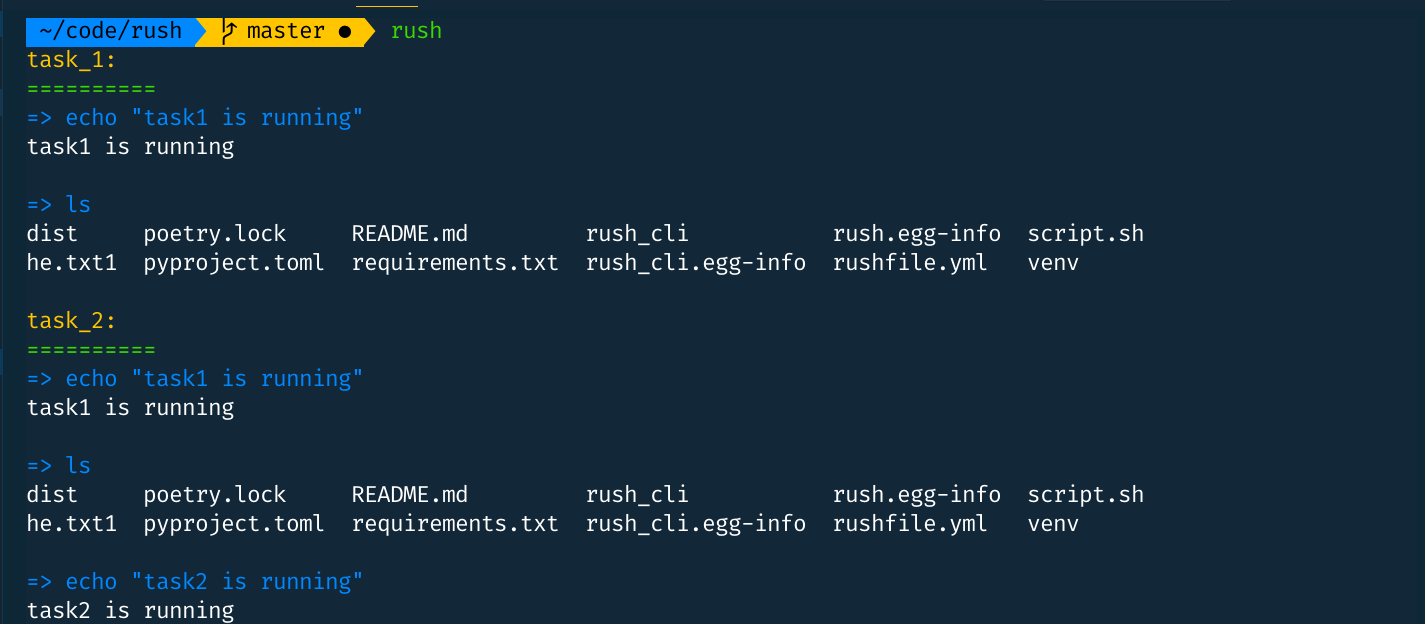
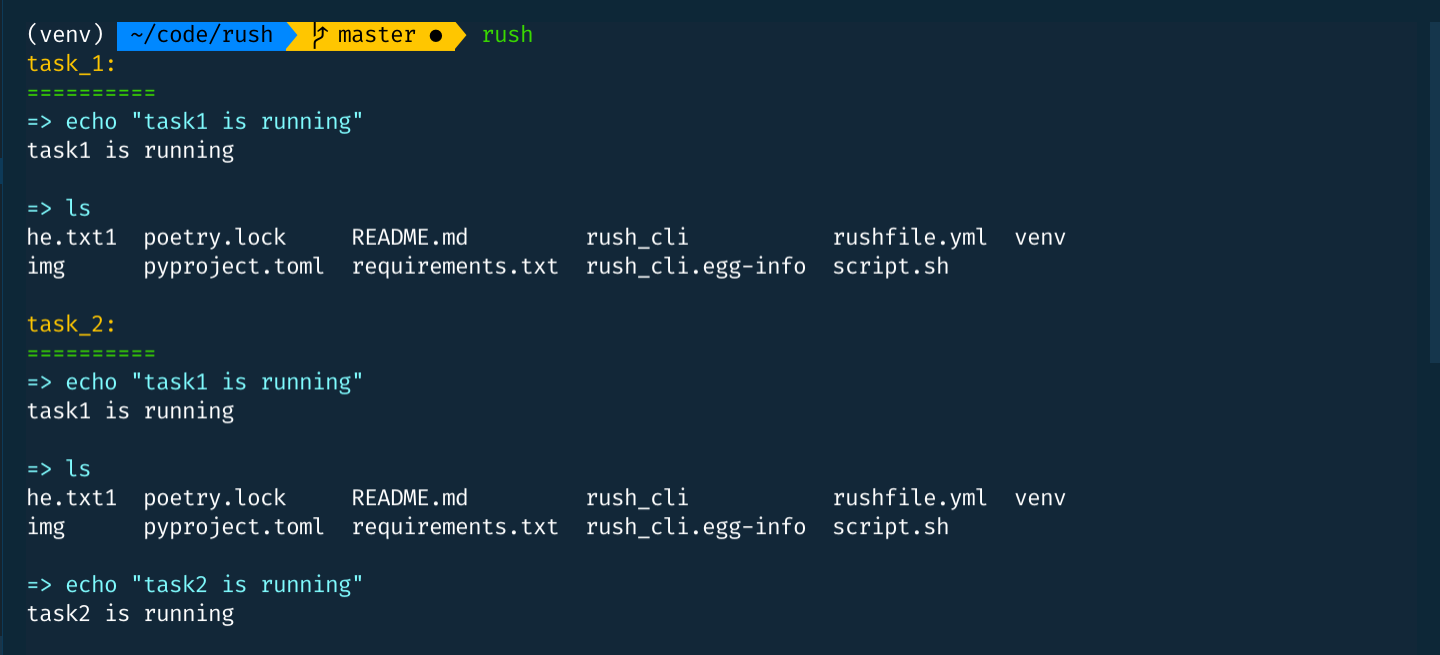
Better error message handling

diff --git a/rush_cli/script.py b/rush_cli/script.py
@@ -28,7 +28,12 @@ class PrepTasks:
             return yml_content
 
         except FileNotFoundError:
-            sys.exit("rushfile.yml file not found")
+            sys.exit(click.style("Error: rushfile.yml not found", fg="magenta"))
+
+        except yaml.scanner.ScannerError:
+            sys.exit(
+                click.style("Error: rushfile.yml is not properly formatted", fg="magenta")
+            )
 
     @staticmethod
     def _clean_tasks(yml_content):
@@ -43,7 +48,7 @@ class PrepTasks:
 
             return cleaned_tasks
         except AttributeError:
-            sys.exit("Rushfile is empty.")
+            sys.exit(click.style("Error: Rushfile is empty.", fg="magenta"))
 
     @classmethod
     def _replace_placeholder_tasks(cls, task_chunk: list, cleaned_tasks: dict) -> list:
@@ -78,7 +83,7 @@ class PrepTasks:
                 filtered_tasks = {k: cleaned_tasks[k] for k in filter_names}
                 return filtered_tasks
             except KeyError:
-                sys.exit("Task does not exist.")
+                sys.exit(click.style("Error: Task does not exist.", fg="magenta"))
         else:
             return cleaned_tasks
 
@@ -134,8 +139,8 @@ class RunTasks(PrepTasks):
         else:
             separator = "=>"
             if self.is_color:
-                task_name = str(click.style(task_name, fg="blue"))
-                separator = str(click.style(separator, fg="blue"))
+                task_name = str(click.style(task_name, fg="cyan"))
+                separator = str(click.style(separator, fg="cyan"))
             click.echo(f"{separator} {task_name}")
 
     def run_all_tasks(self):

diff --git a/README.md b/README.md
@@ -19,7 +19,7 @@ Run all your task automation **shell commands** from a single `rushfile.yml` fil
 ## Installation
 
 ```
-$ pip install rush-cli
+$ pip3 install rush-cli
 ```
 
 ## Workflow
